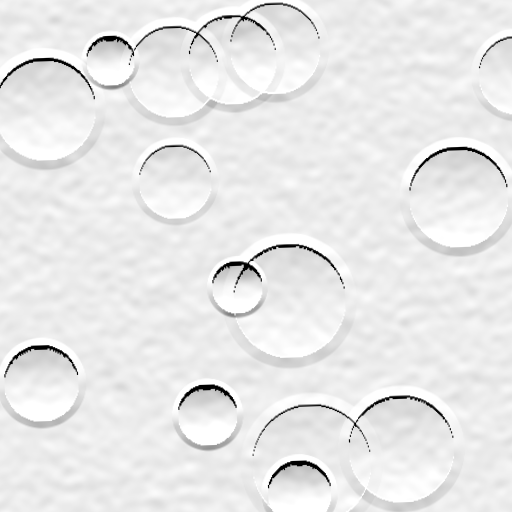
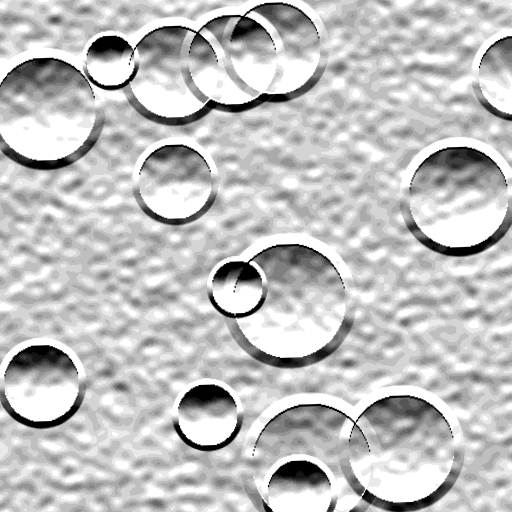
freeze: SHA-256 hash pinning + runtime integrity checks + timestamp audit trail

diff --git a/src/step3_sweep.py b/src/step3_sweep.py
@@ -2,10 +2,30 @@ import yaml
 import numpy as np
 import time
 import cv2
+import hashlib
 from PIL import Image
 import os
+import sys
 import vismatch
 import warnings
+from datetime import datetime, timezone
+
+# ── Simulator integrity check ─────────────────────────────────────
+_sweep_dir = os.path.dirname(os.path.abspath(__file__))
+_EXPECTED_HASHES = {
[2 lines of base64/hex data omitted]
+}
+for _path, _expected in _EXPECTED_HASHES.items():
+    with open(_path, "rb") as _fh:
+        _actual = hashlib.sha256(_fh.read()).hexdigest()
+    if _actual != _expected:
+        print(f"INTEGRITY ERROR: {os.path.basename(_path)} has been modified!")
+        print(f"  Expected SHA-256: {_expected}")
+        print(f"  Actual   SHA-256: {_actual}")
+        print("Refusing to run. Restore the original file or update SIMULATOR_HASHES.txt.")
+        sys.exit(1)
+
 from sun_sim_v2 import horizon_map, render, to_uint8
 from synth_dem import make_dem
 
@@ -120,9 +140,11 @@ if __name__ == '__main__':
     if os.path.exists(csv_file):
         os.remove(csv_file)
     with open(csv_file, 'w') as f:
-        f.write("matcher,protocol,factor,az,el,matches,correct,grid_err,success,runtime,terrain_id\n")
+        f.write("matcher,protocol,factor,az,el,matches,correct,grid_err,success,runtime,terrain_id,timestamp\n")
             
-    print("\nRunning full synthetic sweep (fast matchers)...")
+    print("\nRunning full synthetic sweep (all matchers)...")
+    total_cells = len(azs) * len(els) * len(passed_matchers) * len(protos) * len(factors)
+    cell_num = 0
     for az in azs:
         h_az = horizon_map(dem, 20.0, az)
         for el in els:
@@ -135,6 +157,7 @@ if __name__ == '__main__':
                     img_target_p = apply_protocol(img_target, proto)
                     
                     for factor in factors:
+                        cell_num += 1
                         if factor == 'A_identity':
                             i1, i2, M_gt = img_ref_p, img_target_p, np.eye(2, 3)
                         else:
@@ -147,8 +170,12 @@ if __name__ == '__main__':
                             continue
                             
                         tot, corr, succ, merr = evaluate_matches(pts1, pts2, M_gt)
+                        ts = datetime.now(timezone.utc).isoformat()
                         
                         with open(csv_file, 'a') as f:
-                            f.write(f"{m},{proto},{factor},{az},{el},{tot},{corr},{merr:.3f},{succ},{rtime:.3f},synth01\n")
+                            f.write(f"{m},{proto},{factor},{az},{el},{tot},{corr},{merr:.3f},{succ},{rtime:.3f},synth01,{ts}\n")
+                        
+                        if cell_num % 10 == 0 or cell_num == total_cells:
+                            print(f"  [{cell_num}/{total_cells}] {m} | az={az} el={el} | {proto} | {factor} | corr={corr}/{tot} | {succ}")
                             
-    print("Full synthetic sweep complete! Generated atlas.csv")
+    print(f"\nFull synthetic sweep complete! {cell_num} cells written to {csv_file}")

diff --git a/demo.py b/demo.py
@@ -11,10 +11,25 @@ Usage:
 
 Fallback outputs in  demo_fallback/
 """
-import sys, os, time, argparse
+import sys, os, time, argparse, hashlib
+
+# ── Simulator integrity check ─────────────────────────────────────
+_here = os.path.dirname(os.path.abspath(__file__))
+_EXPECTED_HASHES = {
[2 lines of base64/hex data omitted]
+}
+for _path, _expected in _EXPECTED_HASHES.items():
+    with open(_path, "rb") as _fh:
+        _actual = hashlib.sha256(_fh.read()).hexdigest()
+    if _actual != _expected:
+        print(f"INTEGRITY ERROR: {os.path.basename(_path)} has been modified!")
+        print(f"  Expected SHA-256: {_expected}")
+        print(f"  Actual   SHA-256: {_actual}")
+        print("Refusing to run. Restore the original file or update SIMULATOR_HASHES.txt.")
+        sys.exit(1)
 
 # ── path setup (works from project root) ──────────────────────────
-_here = os.path.dirname(os.path.abspath(__file__))
 sys.path.insert(0, os.path.join(_here, "src"))
 
 import numpy as np
